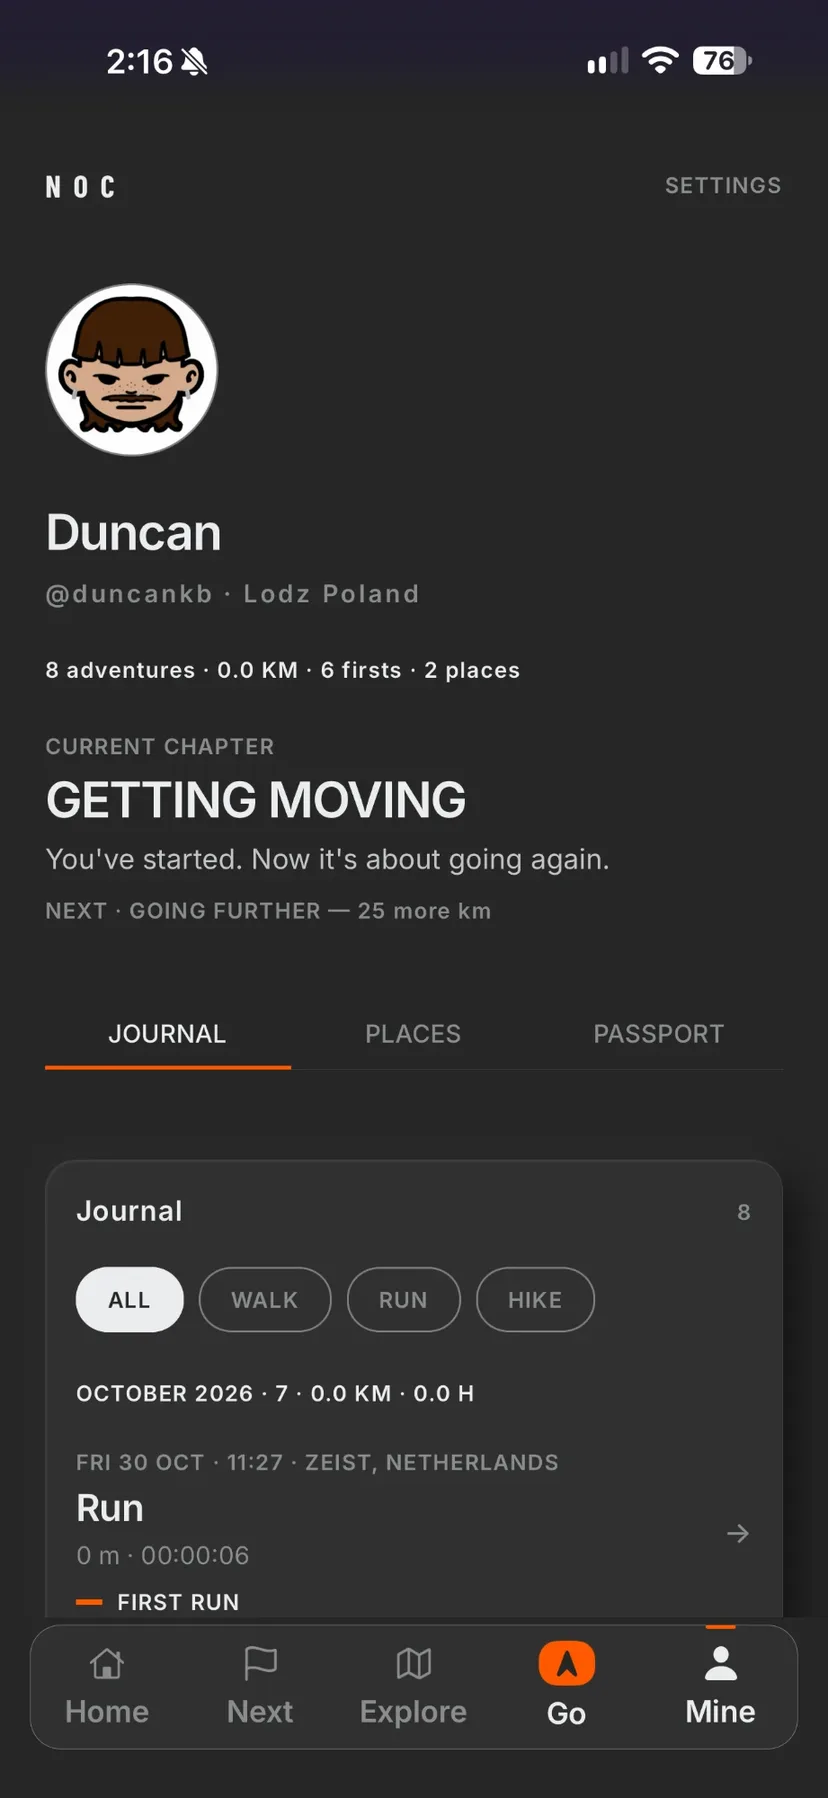
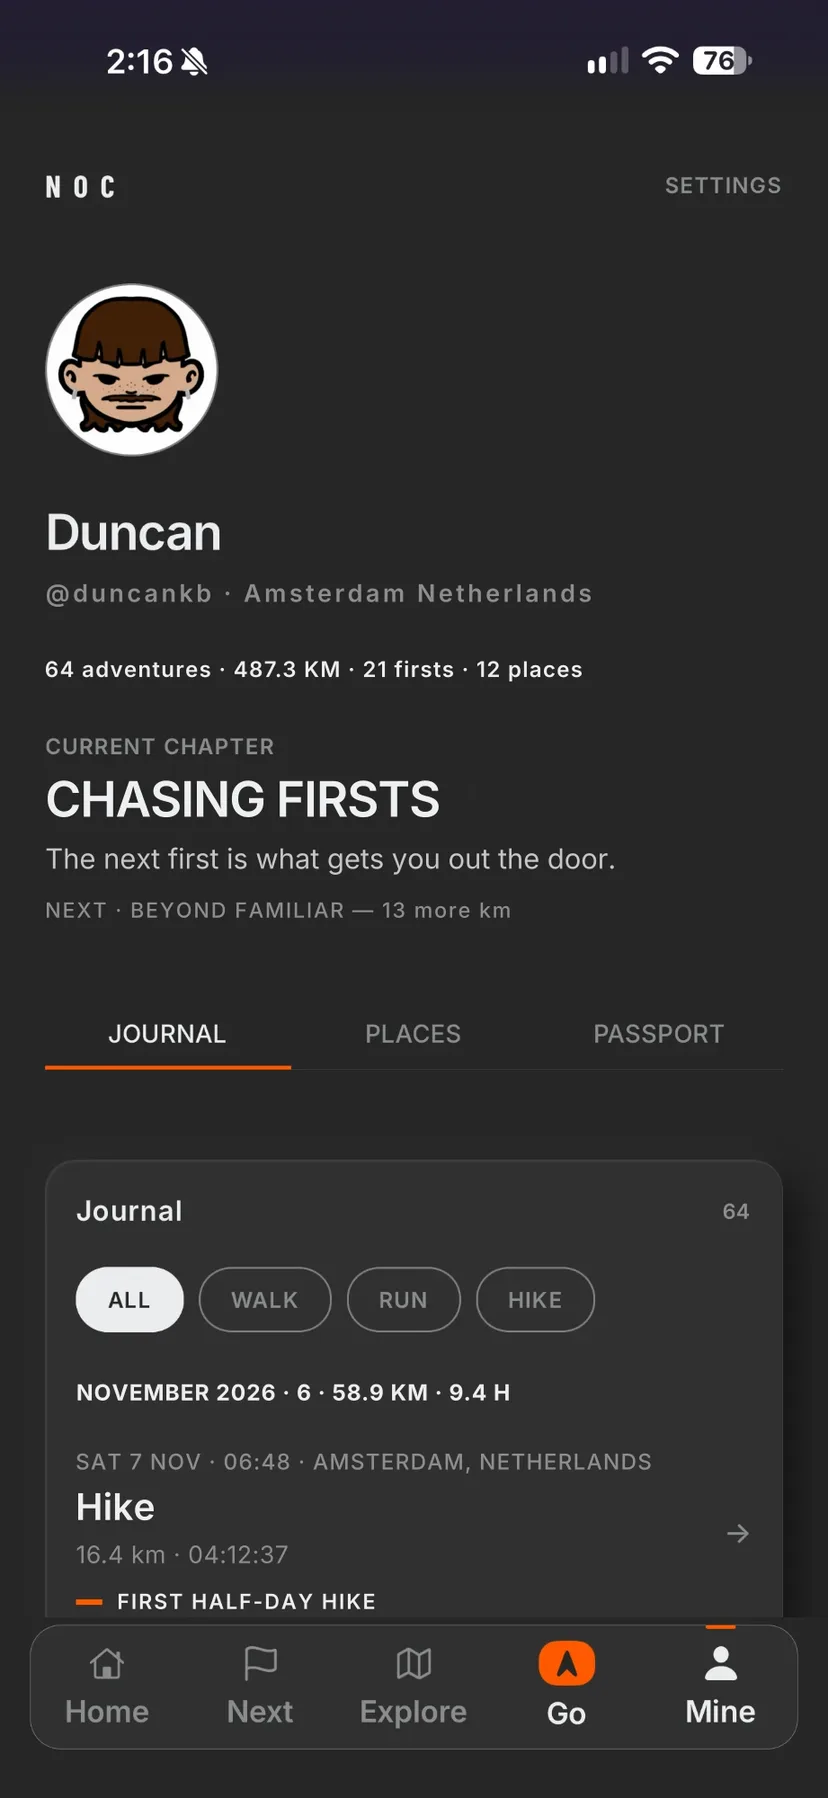
feat: example data on the Home and Mine app screens
Home shows parks near Amsterdam; Mine shows an active example account
(487.3 km, 21 firsts, a half-day hike) with the chapter and first the app
would show for those numbers. Text redrawn in the app's own font.

diff --git a/src/data/app-screens.ts b/src/data/app-screens.ts
@@ -14,7 +14,7 @@ export const APP_SCREENS: AppScreen[] = [
     file: '1-home.webp',
     title: 'Home',
     caption: 'Spots to get outside, near you',
-    alt: 'The Home screen of the NOC app: a greeting, buttons for Community and Notifications, and "Near you", a list of nearby parks for a 5 km walk.',
+    alt: 'The Home screen of the NOC app: a greeting, buttons for Community and Notifications, and "Near you", a list of nearby parks in Amsterdam for a 5 km walk, such as Vondelpark and Westerpark.',
   },
   {
     file: '2-next.webp',
@@ -38,6 +38,6 @@ export const APP_SCREENS: AppScreen[] = [
     file: '5-mine.webp',
     title: 'Mine',
     caption: 'Your journal of firsts',
-    alt: 'The Mine screen: a profile with adventures, firsts and places, the current chapter "Getting moving", and a journal of outings.',
+    alt: 'The Mine screen: a profile with 64 adventures, 487.3 km, 21 firsts and 12 places, the chapter "Chasing firsts", and a journal with a 16.4 km hike that earned a first half-day hike.',
   },
 ];
